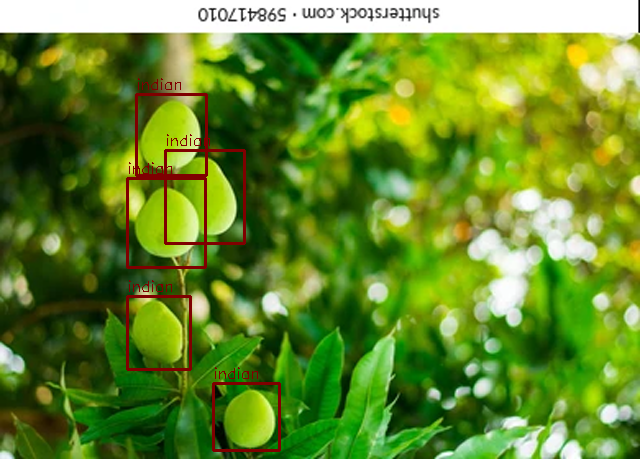
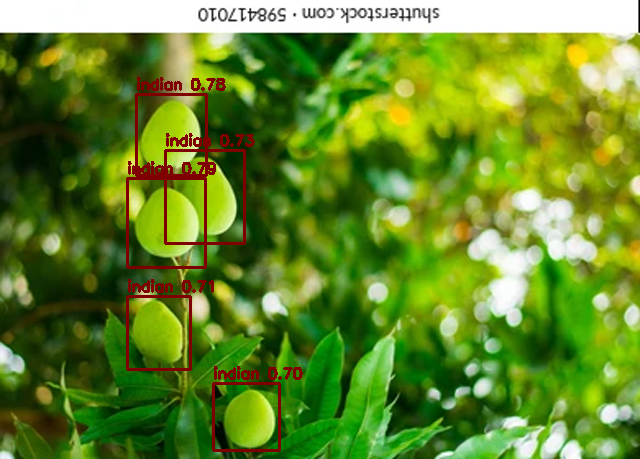
19082023

diff --git a/there_goes_mangoes/__util_model_tester.py b/there_goes_mangoes/__util_model_tester.py
@@ -132,20 +132,30 @@ for model_path in MODELS:
         boxes = model(
             image,
             stream=False,
+            conf=CONFIDENCE_MAP[model_name],
             verbose=None
         )[0].boxes
-
+        
+        det = {
+            "class": [],
+            "class_name": [],
+            "centroid_x": [],
+            "centroid_y": [],
+            "box_width": [],
+            "box_height": [],
+            "confidence": []
+        }
         for box in boxes:
 
             cls = int(box.cls)
-            conf = float(box.cls)
+            conf = float(box.conf)
 
             cx, cy, bw, bh = box.xywhn[0]
 
             cx = float(cx)
             cy = float(cy)
             bw = float(bw)
-            by = float(by)
+            bh = float(bh)
 
             rw = bw / 2
             rh = bh / 2
@@ -158,12 +168,24 @@ for model_path in MODELS:
             dplot = cv2.rectangle(dplot, (bx, by), (ex, ey), color=255, thickness=-1)
 
             image = cv2.rectangle(image, (bx, by), (ex, ey), color=color_dict[cls], thickness=2)
-            image = cv2.putText(image, f"{color_name[cls]}", (bx, by - 5), cv2.FONT_HERSHEY_SIMPLEX, 0.5, color=color_dict[cls])
+            image = cv2.putText(image, f"{color_name[cls]} {conf:.2f}", (bx, by - 5), cv2.FONT_HERSHEY_SIMPLEX, 0.5, color=color_dict[cls], thickness=2)
+
+            det["class"].append(cls)
+            det["class_name"].append(color_name[cls])
+            det["centroid_x"].append(cx)
+            det["centroid_y"].append(cy)
+            det["box_width"].append(bw)
+            det["box_height"].append(bh)
+            det["confidence"].append(conf)
 
         results["detections"].append(len(boxes))
+
         etime = (time_ns() - dtime) / 1000000000
         print(f"\tDetected from image in {etime:.2f}s")
-        
+
+        det = pd.DataFrame(det)
+        det.to_csv(output_dir.joinpath(f"{image_path.stem}.csv").as_posix(), index=False)
+
         results["time"].append(etime)
 
         tp = np.sum(cv2.bitwise_and(dplot, plots))
